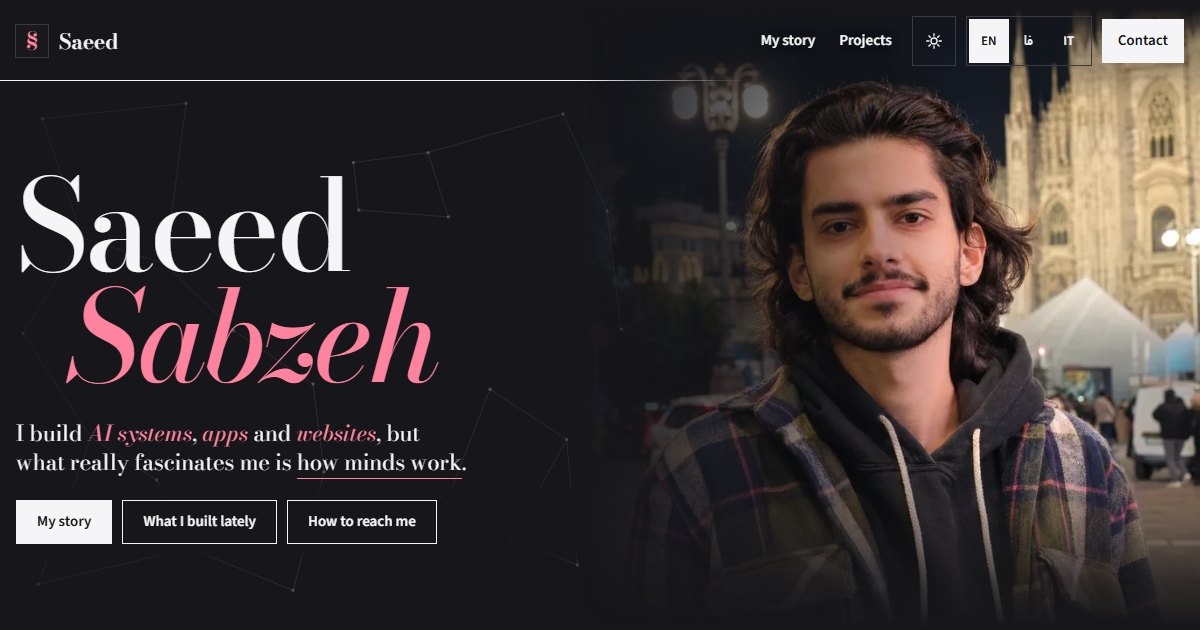
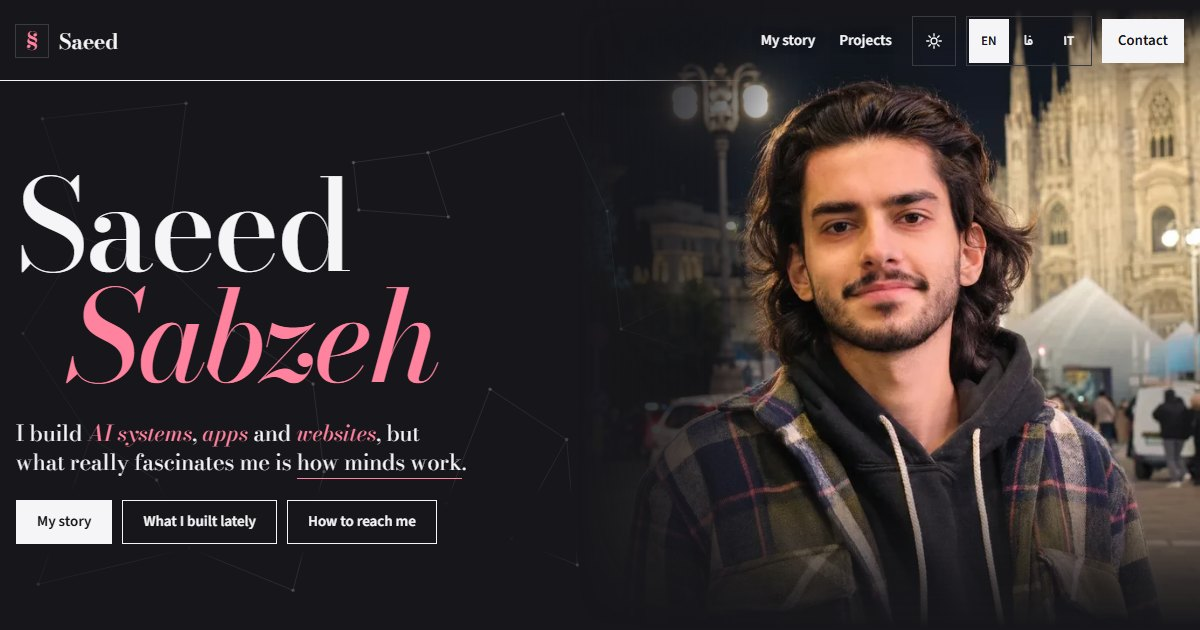
Keep the night lamp dimmer off the face
The dimmer that softens the street lamp in the night photo ran to 62% of
the photo's width, over the left half of the face; it now ends at 36%,
before the face starts. The dark link-preview image is re-rendered with
it (og.jpg?v=4).

Changed region(s): [[0.5858, 0.1206, 0.7708, 0.9048]]

diff --git a/assets/hero.css b/assets/hero.css
@@ -146,7 +146,8 @@ html[lang="fa"] .name span,html.sk-on[lang="fa"] .name span{display:block;paddin
 /* day: wash the left toward the page colour; night: dim the street lamp */
 .hp::before,.hp::after{content:"";position:absolute;inset:0;z-index:1;transition:opacity var(--t-swap) var(--ease-soft)}
 .hp::before{opacity:var(--hp-wash);background:linear-gradient(to right,color-mix(in srgb,var(--paper) 45%,transparent) 0,color-mix(in srgb,var(--paper) 14%,transparent) 28%,transparent 46%)}
-.hp::after{opacity:var(--hp-dim);background:linear-gradient(to right,rgba(14,14,18,.7) 0,rgba(14,14,18,.5) 42%,transparent 62%)}
+/* the dimmer covers the lamp (about a quarter into the photo) and is gone before the face starts (about 37-40%), so it never shades half of it */
+.hp::after{opacity:var(--hp-dim);background:linear-gradient(to right,rgba(14,14,18,.7) 0,rgba(14,14,18,.55) 24%,rgba(14,14,18,.22) 31%,transparent 36%)}
 /* Vice: a sky-coloured layer hides the page's own skyline and palms under the photo and the text, so one horizon shows */
 .hero::before{content:"";position:absolute;inset:0;z-index:0;pointer-events:none;
   background:var(--sky-bg);opacity:var(--hp-sky);transition:opacity var(--t-swap) var(--ease-soft);

diff --git a/index.html b/index.html
@@ -9,7 +9,7 @@
 <link rel="icon" type="image/png" sizes="192x192" href="icon-192.png">
 <meta property="og:title" content="Saeed Sabzeh">
 <meta property="og:description" content="I build AI systems, apps and websites, but what really fascinates me is how minds work. AI master's student at the University of Milano-Bicocca.">
-<meta property="og:image" content="https://saeedsabzeh.com/og.jpg?v=3">
+<meta property="og:image" content="https://saeedsabzeh.com/og.jpg?v=4">
 <meta property="og:image:width" content="1200">
 <meta property="og:image:height" content="630">
 <meta property="og:image:alt" content="Saeed Sabzeh">
@@ -36,7 +36,7 @@
 <link rel="stylesheet" href="assets/thread.css?v=2">
 <link rel="stylesheet" href="assets/sketch.css?v=4">
 <link rel="stylesheet" href="assets/bridge.css?v=4">
-<link rel="stylesheet" href="assets/hero.css?v=9">
+<link rel="stylesheet" href="assets/hero.css?v=10">
 </head>
 <body>
 <header class="top">

diff --git a/projects/index.html b/projects/index.html
@@ -9,7 +9,7 @@
 <link rel="icon" type="image/png" sizes="192x192" href="../icon-192.png">
 <meta property="og:title" content="Projects · Saeed Sabzeh">
 <meta property="og:description" content="Saeed Sabzeh's projects in detail: a Telegram card game, a QGIS plugin for Milan's planning rules, a mod for Age of Empires II, a Kaggle reinforcement-learning agent and more.">
-<meta property="og:image" content="https://saeedsabzeh.com/og.jpg?v=3">
+<meta property="og:image" content="https://saeedsabzeh.com/og.jpg?v=4">
 <meta property="og:image:width" content="1200">
 <meta property="og:image:height" content="630">
 <meta property="og:image:alt" content="Saeed Sabzeh">
